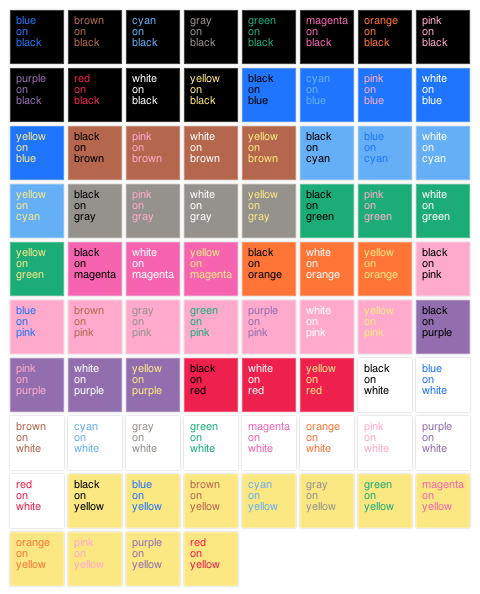
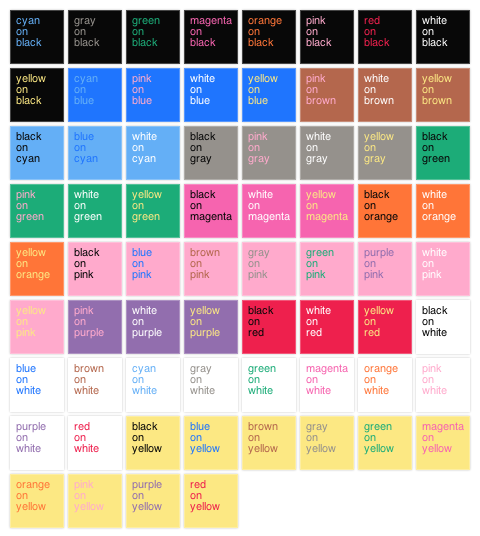
Fixing some coloring

diff --git a/build/colorizer.min.js b/build/colorizer.min.js
@@ -1,1 +1,1 @@
-require=function r(e,a,o){function n(l,d){if(!a[l]){if(!e[l]){var c="function"==typeof require&&require;if(!d&&c)return c(l,!0);if(t)return t(l,!0);var i=new Error("Cannot find module '"+l+"'");throw i.code="MODULE_NOT_FOUND",i}var g=a[l]={exports:{}};e[l][0].call(g.exports,function(r){var a=e[l][1][r];return n(a?a:r)},g,g.exports,r,e,a,o)}return a[l].exports}for(var t="function"==typeof require&&require,l=0;l<o.length;l++)n(o[l]);return n}({"/Users/larsonj/Sites/radReveal/rad-colorizer/src/colorizer.js":[function(r){function e(r,e){if(g=r||{},document.head.innerHTML+='<style id="rad-colorizer-css"></style>',f=document.querySelector("#rad-colorizer-css"),"object"==typeof g.palettes&&Object.keys(g.palettes).forEach(function(r){s[r]=g.palettes[r]}),"object"==typeof g.palette){var a=g.palette.name||"custom";s[a]=g.palette,b=g.palette}Object.keys(s).forEach(function(r){s[r].name=r,o(s[r])}),"string"==typeof g.palette&&(s[g.palette]?b=s[g.palette]:console.log("There is no "+g.palette+" palette; using standard.")),g.fillSlides&&e.forEach(function(r){r.element.hasAttribute("data-rad-colorizer")||r.element.setAttribute("data-rad-colorizer",g.fillSlides)})}function a(r){Object.keys(r.foregrounds).sort().forEach(function(e){Object.keys(r.backgrounds).sort().forEach(function(a){e!=a&&(r.dontPair[e]&&r.dontPair[e][a]||r.dontPair[a]&&r.dontPair[a][e]||(r.pairs.push({background:{name:a,color:r.backgrounds[a]},foreground:{name:e,color:r.foregrounds[e]}}),r.pairForBackground[a]||(r.pairForBackground[a]=[]),r.pairForBackground[a].push(r.pairs.length-1),r.pairForForeground[e]||(r.pairForForeground[e]=[]),r.pairForForeground[e].push(r.pairs.length-1)))})})}function o(r){(!r.colors||Object.keys(r.colors).length<3)&&(console.log("Palettes must contain at least three colors; "+r.name+" doesn't; defaulting to standard colors"),r.colors=s.standard.colors),r.pairs=r.pairs||[],r.foregrounds=r.foregrounds||r.colors,r.backgrounds=r.backgrounds||r.colors,r.dontPair=r.dontPair||{},r.pairForBackground={},r.pairForForeground={},r.toHtml=function(){return p(this)},s[r.name]=r,a(r),r.pairs<3&&(console.log("Palettes must have at least three available pairs; "+r.name+" doesn't; ignoring dontPair."),r.dontPair={},a(r));var e=[];Object.keys(r.foregrounds).forEach(function(a){var o=".reveal ."+i(r,"fore",a);e.push(o+","+o+" * {color:"+r.foregrounds[a]+";}\n"),o=".reveal."+i(r,"fore",a)+" .controls div.navigate-left",e.push(o+","+o+".enabled {border-right-color:"+r.foregrounds[a]+";}\n"),o=".reveal."+i(r,"fore",a)+" .controls div.navigate-right",e.push(o+","+o+".enabled {border-left-color:"+r.foregrounds[a]+";}\n"),o=".reveal."+i(r,"fore",a)+" .controls div.navigate-up",e.push(o+","+o+".enabled {border-bottom-color:"+r.foregrounds[a]+";}\n"),o=".reveal."+i(r,"fore",a)+" .controls div.navigate-down",e.push(o+","+o+".enabled {border-top-color:"+r.foregrounds[a]+";}\n"),o=".reveal."+i(r,"fore",a)+" .progress span",e.push(o+" {background:"+r.foregrounds[a]+";}\n")}),Object.keys(r.backgrounds).forEach(function(a){var o=".reveal .backgrounds ."+i(r,"back",a);e.push(o+" {background-color:"+r.backgrounds[a]+";}\n")}),f.innerHTML+=e.join("")}function n(r,e,a){var o,n=k;r.data.randomizer&&(r.data.colorizer.randomizer||(r.data.colorizer.randomizer=r.data.getRandomizerFor("colorizer")),n=r.data.colorizer.randomizer);var t=r.data.colorizer.palette;return o=e&&!a?t.pairForForeground[e][n.random(0,t.pairForBackground[e].length)]:a&&!e?t.pairForBackground[a][n.random(0,t.pairForBackground[a].length)]:n.random(0,t.pairs.length)}function t(r,e,a){var o=n(r,e,a);if(!r.prevSlideObj||!r.prevSlideObj.data.colorizer||g.allowBackgroundRepeat)return o;if(r.prevSlideObj.data.randomizer&&r.data.randomizer&&r.prevSlideObj.data.randomizer.seed==r.data.randomizer.seed)return o;for(previousBackgroundColor=r.prevSlideObj.data.colorizer.background.name;r.data.colorizer.palette.pairs[o].background.name==previousBackgroundColor;)o=n(r,e,a);return o}function l(r,e){e.data.colorizer&&e.data.colorizer.foreground&&e.data.colorizer.palette&&(y.className+=" "+i(e.data.colorizer.palette,"fore",e.data.colorizer.foreground.name))}function d(r,e){e.data.colorizer&&e.data.colorizer.foreground&&e.data.colorizer.palette&&(y.className=y.className.replace(i(e.data.colorizer.palette,"fore",e.data.colorizer.foreground.name),""))}function c(r,e){e.data.colorizer=e.data.colorizer||{};var a=e.element.getAttribute("data-rad-colorizer-palette");a&&(s[a]?b=s[a]:console.log("There is no "+a+" palette")),e.data.colorizer.palette=b;var o=t(e,null,null);e.data.colorizer.background=b.pairs[o].background,e.data.colorizer.foreground=b.pairs[o].foreground;var n=e.element.getAttribute("data-rad-colorizer-background"),l=e.element.getAttribute("data-rad-colorizer-foreground");n&&!b.backgrounds[n]&&(console.log("There is no "+n+" background in the "+b.name+" palette"),n=null),n&&(e.data.colorizer.background={name:n,color:b.backgrounds[n]},l||(e.data.colorizer.foreground=t(e,null,n))),l&&!b.foregrounds[l]&&(console.log("There is no "+l+" foreground in the "+b.name+" palette"),l=null),l&&(e.data.colorizer.foreground={name:l,color:b.foregrounds[l]}),e.element.className+=" "+i(b,"fore",e.data.colorizer.foreground.name)+" "+i(b,"back",e.data.colorizer.background.name)}function i(r,e,a){return"rad-colorizer-"+r.name+"-"+e+"-"+a}var g,u=r("rad-reveal"),s=r("./palettes"),p=r("./generatePaletteHtml"),f=null,b=s.standard,y=document.querySelector(".reveal"),k={random:function(r,e){return Math.floor((e-r)*Math.random()+r)}};u.register("colorizer",e),u.on("data-rad-colorizer","load",c),u.on("data-rad-colorizer","show",l),u.on("data-rad-colorizer","hide",d)},{"./generatePaletteHtml":1,"./palettes":2,"rad-reveal":"rad-reveal"}],1:[function(r,e){function a(r){var e=[];return Object.keys(r.colors).sort().forEach(function(a){Object.keys(r.colors).sort().forEach(function(o){o==a||"undefined"!=typeof r.dontPair[o]&&r.dontPair[o][a]||"undefined"!=typeof r.dontPair[a]&&r.dontPair[a][o]||e.push('<span class="colorizer-palette-pair" style="color: '+r.colors[o]+"; background-color: "+r.colors[a]+'">'+o+"<br>on</br>"+a+"</span>")})}),e.join("")}e.exports=a},{}],2:[function(r,e){var a={standard:{colors:{black:"black",white:"white",gray:"gray",brown:"brown",red:"red",orange:"orange",yellow:"yellow",green:"green",blue:"blue",purple:"purple"},dontPair:{black:{white:1,blue:1,purple:1},white:{black:1,yellow:1},gray:{brown:1,red:1,orange:1,green:1,purple:1},brown:{gray:1,red:1,green:1,blue:1,purple:1},red:{gray:1,brown:1,orange:1,green:1,blue:1,purple:1},orange:{gray:1,red:1},yellow:{white:1},green:{gray:1,brown:1,red:1,blue:1,purple:1},blue:{black:1,brown:1,red:1,green:1,purple:1},purple:{black:1,gray:1,brown:1,red:1,green:1,blue:1}}},crayons:{colors:{red:"#ee204d",orange:"#ff7538",yellow:"#fce883",green:"#1cac78",blue:"#1f75fe",purple:"#926eae",black:"#000000",white:"#ffffff",gray:"#95918c",brown:"#b4674d",cyan:"#64aff6",magenta:"#f664af",pink:"#ffaacc"},dontPair:{red:{orange:1,green:1,blue:1,purple:1,gray:1,brown:1,cyan:1,magenta:1,pink:1},orange:{red:1,green:1,blue:1,purple:1,gray:1,brown:1,cyan:1,magenta:1,pink:1},yellow:{white:1},green:{red:1,orange:1,blue:1,purple:1,gray:1,brown:1,cyan:1,magenta:1},blue:{red:1,orange:1,green:1,purple:1,gray:1,brown:1,magenta:1},purple:{red:1,orange:1,green:1,blue:1,gray:1,brown:1,cyan:1,magenta:1},white:{yellow:1},gray:{red:1,orange:1,green:1,blue:1,purple:1,brown:1,cyan:1,magenta:1},brown:{red:1,orange:1,green:1,blue:1,purple:1,gray:1,cyan:1,magenta:1},cyan:{red:1,orange:1,green:1,purple:1,gray:1,brown:1,magenta:1,pink:1},magenta:{red:1,orange:1,green:1,blue:1,purple:1,gray:1,brown:1,cyan:1,pink:1},pink:{red:1,orange:1,cyan:1,magenta:1}}},grayscale:{colors:{black:"#000",dark:"#444",gray:"#888",light:"#ccc",white:"#fff"},dontPair:{black:{dark:1},dark:{black:1,gray:1},gray:{dark:1,light:1},light:{gray:1,white:1},white:{light:1}}},wood:{colors:{darkBrown:"#5d4037",brown:"#795548",darkOrange:"#f57c00",orange:"#ffc107",lightOrange:"#ffe0b2",lightGray:"#d7ccc8",gray:"#727272",darkGray:"#212121"},dontPair:{darkBrown:{brown:1,gray:1,darkGray:1},brown:{darkBrown:1,gray:1,darkGray:1},darkOrange:{orange:1,gray:1},orange:{darkOrange:1,lightOrange:1,lightGray:1},lightOrange:{orange:1,lightGray:1},lightGray:{orange:1,lightOrange:1},gray:{darkBrown:1,brown:1,darkOrange:1},darkGray:{darkBrown:1,brown:1}}},sea:{colors:{navy:"#303f9f",deepSky:"#03a9f4",lagoon:"#00bcd4",lightSky:"#b3e5fc",seaGreen:"#009688",deepGray:"#212121",gray:"#727272"},dontPair:{navy:{deepGray:1,gray:1},deepSky:{lagoon:1,seaGreen:1},lagoon:{deepSky:1,seaGreen:1,gray:1},seaGreen:{deepSky:1,lagoon:1,gray:1},deepGray:{navy:1},gray:{navy:1,lagoon:1,seaGreen:1}}},circus:{colors:{black:"#212121",blue:"#536dfe",darkGray:"#727272",lightGray:"#b6b6b6",red:"#f44336",orange:"#fbc02d",yellow:"#ffeb3b",white:"#ffffff"},dontPair:{black:{darkGray:1},blue:{darkGray:1,red:1},darkGray:{black:1,blue:1,red:1,orange:1},lightGray:{red:1,orange:1,yellow:1},red:{blue:1,darkGray:1,lightGray:1},orange:{lightGray:1,yellow:1,darkGray:1},yellow:{orange:1,white:1,lightGray:1},white:{yellow:1}}}};e.exports=a},{}]},{},["/Users/larsonj/Sites/radReveal/rad-colorizer/src/colorizer.js"]);
+require=function r(e,a,o){function n(l,d){if(!a[l]){if(!e[l]){var c="function"==typeof require&&require;if(!d&&c)return c(l,!0);if(t)return t(l,!0);var i=new Error("Cannot find module '"+l+"'");throw i.code="MODULE_NOT_FOUND",i}var g=a[l]={exports:{}};e[l][0].call(g.exports,function(r){var a=e[l][1][r];return n(a?a:r)},g,g.exports,r,e,a,o)}return a[l].exports}for(var t="function"==typeof require&&require,l=0;l<o.length;l++)n(o[l]);return n}({"/Users/larsonj/Sites/radReveal/rad-colorizer/src/colorizer.js":[function(r){function e(r,e){if(g=r||{},document.head.innerHTML+='<style id="rad-colorizer-css"></style>',f=document.querySelector("#rad-colorizer-css"),"object"==typeof g.palettes&&Object.keys(g.palettes).forEach(function(r){s[r]=g.palettes[r]}),"object"==typeof g.palette){var a=g.palette.name||"custom";s[a]=g.palette,b=g.palette}Object.keys(s).forEach(function(r){s[r].name=r,o(s[r])}),"string"==typeof g.palette&&(s[g.palette]?b=s[g.palette]:console.log("There is no "+g.palette+" palette; using standard.")),g.fillSlides&&e.forEach(function(r){r.element.hasAttribute("data-rad-colorizer")||r.element.setAttribute("data-rad-colorizer",g.fillSlides)})}function a(r){Object.keys(r.foregrounds).sort().forEach(function(e){Object.keys(r.backgrounds).sort().forEach(function(a){e!=a&&(r.dontPair[e]&&r.dontPair[e][a]||r.dontPair[a]&&r.dontPair[a][e]||(r.pairs.push({background:{name:a,color:r.backgrounds[a]},foreground:{name:e,color:r.foregrounds[e]}}),r.pairForBackground[a]||(r.pairForBackground[a]=[]),r.pairForBackground[a].push(r.pairs.length-1),r.pairForForeground[e]||(r.pairForForeground[e]=[]),r.pairForForeground[e].push(r.pairs.length-1)))})})}function o(r){(!r.colors||Object.keys(r.colors).length<3)&&(console.log("Palettes must contain at least three colors; "+r.name+" doesn't; defaulting to standard colors"),r.colors=s.standard.colors),r.pairs=r.pairs||[],r.foregrounds=r.foregrounds||r.colors,r.backgrounds=r.backgrounds||r.colors,r.dontPair=r.dontPair||{},r.pairForBackground={},r.pairForForeground={},r.toHtml=function(){return p(this)},s[r.name]=r,a(r),r.pairs<3&&(console.log("Palettes must have at least three available pairs; "+r.name+" doesn't; ignoring dontPair."),r.dontPair={},a(r));var e=[];Object.keys(r.foregrounds).forEach(function(a){var o=".reveal ."+i(r,"fore",a);e.push(o+","+o+" * {color:"+r.foregrounds[a]+";}\n"),o=".reveal."+i(r,"fore",a)+" .controls div.navigate-left",e.push(o+","+o+".enabled {border-right-color:"+r.foregrounds[a]+";}\n"),o=".reveal."+i(r,"fore",a)+" .controls div.navigate-right",e.push(o+","+o+".enabled {border-left-color:"+r.foregrounds[a]+";}\n"),o=".reveal."+i(r,"fore",a)+" .controls div.navigate-up",e.push(o+","+o+".enabled {border-bottom-color:"+r.foregrounds[a]+";}\n"),o=".reveal."+i(r,"fore",a)+" .controls div.navigate-down",e.push(o+","+o+".enabled {border-top-color:"+r.foregrounds[a]+";}\n"),o=".reveal."+i(r,"fore",a)+" .progress span",e.push(o+" {background:"+r.foregrounds[a]+";}\n")}),Object.keys(r.backgrounds).forEach(function(a){var o=".reveal .backgrounds ."+i(r,"back",a);e.push(o+" {background-color:"+r.backgrounds[a]+";}\n")}),f.innerHTML+=e.join("")}function n(r,e,a){var o,n=k;r.data.randomizer&&(r.data.colorizer.randomizer||(r.data.colorizer.randomizer=r.data.getRandomizerFor("colorizer")),n=r.data.colorizer.randomizer);var t=r.data.colorizer.palette;return o=e&&!a?t.pairForForeground[e][n.random(0,t.pairForBackground[e].length)]:a&&!e?t.pairForBackground[a][n.random(0,t.pairForBackground[a].length)]:n.random(0,t.pairs.length)}function t(r,e,a){var o=n(r,e,a);if(!r.prevSlideObj||!r.prevSlideObj.data.colorizer||g.allowBackgroundRepeat)return o;if(r.prevSlideObj.data.randomizer&&r.data.randomizer&&r.prevSlideObj.data.randomizer.seed==r.data.randomizer.seed)return o;for(previousBackgroundColor=r.prevSlideObj.data.colorizer.background.name;r.data.colorizer.palette.pairs[o].background.name==previousBackgroundColor;)o=n(r,e,a);return o}function l(r,e){e.data.colorizer&&e.data.colorizer.foreground&&e.data.colorizer.palette&&(y.className+=" "+i(e.data.colorizer.palette,"fore",e.data.colorizer.foreground.name))}function d(r,e){e.data.colorizer&&e.data.colorizer.foreground&&e.data.colorizer.palette&&(y.className=y.className.replace(i(e.data.colorizer.palette,"fore",e.data.colorizer.foreground.name),""))}function c(r,e){e.data.colorizer=e.data.colorizer||{};var a=e.element.getAttribute("data-rad-colorizer-palette");a&&(s[a]?b=s[a]:console.log("There is no "+a+" palette")),e.data.colorizer.palette=b;var o=t(e,null,null);e.data.colorizer.background=b.pairs[o].background,e.data.colorizer.foreground=b.pairs[o].foreground;var n=e.element.getAttribute("data-rad-colorizer-background"),l=e.element.getAttribute("data-rad-colorizer-foreground");n&&!b.backgrounds[n]&&(console.log("There is no "+n+" background in the "+b.name+" palette"),n=null),n&&(e.data.colorizer.background={name:n,color:b.backgrounds[n]},l||(e.data.colorizer.foreground=t(e,null,n))),l&&!b.foregrounds[l]&&(console.log("There is no "+l+" foreground in the "+b.name+" palette"),l=null),l&&(e.data.colorizer.foreground={name:l,color:b.foregrounds[l]}),e.element.className+=" "+i(b,"fore",e.data.colorizer.foreground.name)+" "+i(b,"back",e.data.colorizer.background.name)}function i(r,e,a){return"rad-colorizer-"+r.name+"-"+e+"-"+a}var g,u=r("rad-reveal"),s=r("./palettes"),p=r("./generatePaletteHtml"),f=null,b=s.standard,y=document.querySelector(".reveal"),k={random:function(r,e){return Math.floor((e-r)*Math.random()+r)}};u.register("colorizer",e),u.on("data-rad-colorizer","load",c),u.on("data-rad-colorizer","show",l),u.on("data-rad-colorizer","hide",d)},{"./generatePaletteHtml":1,"./palettes":2,"rad-reveal":"rad-reveal"}],1:[function(r,e){function a(r){var e=[];return Object.keys(r.colors).sort().forEach(function(a){Object.keys(r.colors).sort().forEach(function(o){o==a||"undefined"!=typeof r.dontPair[o]&&r.dontPair[o][a]||"undefined"!=typeof r.dontPair[a]&&r.dontPair[a][o]||e.push('<span class="colorizer-palette-pair" style="color: '+r.colors[o]+"; background-color: "+r.colors[a]+'">'+o+"<br>on</br>"+a+"</span>")})}),e.join("")}e.exports=a},{}],2:[function(r,e){var a={standard:{colors:{black:"black",white:"white",gray:"gray",brown:"brown",red:"red",orange:"orange",yellow:"yellow",green:"green",blue:"blue",purple:"purple"},dontPair:{black:{white:1,blue:1,purple:1},white:{black:1,yellow:1},gray:{brown:1,red:1,orange:1,green:1,purple:1},brown:{gray:1,red:1,green:1,blue:1,purple:1},red:{gray:1,brown:1,orange:1,green:1,blue:1,purple:1},orange:{gray:1,red:1},yellow:{white:1},green:{gray:1,brown:1,red:1,blue:1,purple:1},blue:{black:1,brown:1,red:1,green:1,purple:1},purple:{black:1,gray:1,brown:1,red:1,green:1,blue:1}}},crayons:{colors:{red:"#ee204d",orange:"#ff7538",yellow:"#fce883",green:"#1cac78",blue:"#1f75fe",purple:"#926eae",black:"#080808",white:"#ffffff",gray:"#95918c",brown:"#b4674d",cyan:"#64aff6",magenta:"#f664af",pink:"#ffaacc"},dontPair:{red:{orange:1,green:1,blue:1,purple:1,gray:1,brown:1,cyan:1,magenta:1,pink:1},orange:{red:1,green:1,blue:1,purple:1,gray:1,brown:1,cyan:1,magenta:1,pink:1},yellow:{white:1,cyan:1},green:{red:1,orange:1,blue:1,purple:1,gray:1,brown:1,cyan:1,magenta:1},blue:{red:1,orange:1,green:1,purple:1,gray:1,brown:1,magenta:1,black:1},purple:{red:1,orange:1,green:1,blue:1,gray:1,brown:1,cyan:1,magenta:1,black:1},white:{yellow:1},gray:{red:1,orange:1,green:1,blue:1,purple:1,brown:1,cyan:1,magenta:1},brown:{red:1,orange:1,green:1,blue:1,purple:1,gray:1,cyan:1,magenta:1,black:1},cyan:{red:1,orange:1,green:1,purple:1,gray:1,brown:1,magenta:1,pink:1,yellow:1},magenta:{red:1,orange:1,green:1,blue:1,purple:1,gray:1,brown:1,cyan:1,pink:1},pink:{red:1,orange:1,cyan:1,magenta:1},black:{purple:1,brown:1,blue:1}}},grayscale:{colors:{black:"#000",dark:"#444",gray:"#888",light:"#ccc",white:"#fff"},dontPair:{black:{dark:1},dark:{black:1,gray:1},gray:{dark:1,light:1},light:{gray:1,white:1},white:{light:1}}},wood:{colors:{darkBrown:"#5d4037",brown:"#795548",darkOrange:"#f57c00",orange:"#ffc107",lightOrange:"#ffe0b2",lightGray:"#d7ccc8",gray:"#727272",darkGray:"#212121"},dontPair:{darkBrown:{brown:1,gray:1,darkGray:1},brown:{darkBrown:1,gray:1,darkGray:1},darkOrange:{orange:1,gray:1},orange:{darkOrange:1,lightOrange:1,lightGray:1},lightOrange:{orange:1,lightGray:1},lightGray:{orange:1,lightOrange:1},gray:{darkBrown:1,brown:1,darkOrange:1},darkGray:{darkBrown:1,brown:1}}},sea:{colors:{navy:"#303f9f",deepSky:"#03a9f4",lagoon:"#00bcd4",lightSky:"#b3e5fc",seaGreen:"#009688",deepGray:"#212121",gray:"#727272"},dontPair:{navy:{deepGray:1,gray:1},deepSky:{lagoon:1,seaGreen:1},lagoon:{deepSky:1,seaGreen:1,gray:1},seaGreen:{deepSky:1,lagoon:1,gray:1},deepGray:{navy:1},gray:{navy:1,lagoon:1,seaGreen:1}}},circus:{colors:{black:"#212121",blue:"#536dfe",darkGray:"#727272",lightGray:"#b6b6b6",red:"#f44336",orange:"#fbc02d",yellow:"#ffeb3b",white:"#ffffff"},dontPair:{black:{darkGray:1},blue:{darkGray:1,red:1},darkGray:{black:1,blue:1,red:1,orange:1},lightGray:{red:1,orange:1,yellow:1},red:{blue:1,darkGray:1,lightGray:1},orange:{lightGray:1,yellow:1,darkGray:1},yellow:{orange:1,white:1,lightGray:1},white:{yellow:1}}}};e.exports=a},{}]},{},["/Users/larsonj/Sites/radReveal/rad-colorizer/src/colorizer.js"]);

diff --git a/build/getRandomColorPair.min.js b/build/getRandomColorPair.min.js
@@ -1,1 +1,1 @@
-require=function r(e,a,n){function o(l,t){if(!a[l]){if(!e[l]){var y="function"==typeof require&&require;if(!t&&y)return y(l,!0);if(g)return g(l,!0);var d=new Error("Cannot find module '"+l+"'");throw d.code="MODULE_NOT_FOUND",d}var i=a[l]={exports:{}};e[l][0].call(i.exports,function(r){var a=e[l][1][r];return o(a?a:r)},i,i.exports,r,e,a,n)}return a[l].exports}for(var g="function"==typeof require&&require,l=0;l<n.length;l++)o(n[l]);return o}({1:[function(r,e){var a={standard:{colors:{black:"black",white:"white",gray:"gray",brown:"brown",red:"red",orange:"orange",yellow:"yellow",green:"green",blue:"blue",purple:"purple"},dontPair:{black:{white:1,blue:1,purple:1},white:{black:1,yellow:1},gray:{brown:1,red:1,orange:1,green:1,purple:1},brown:{gray:1,red:1,green:1,blue:1,purple:1},red:{gray:1,brown:1,orange:1,green:1,blue:1,purple:1},orange:{gray:1,red:1},yellow:{white:1},green:{gray:1,brown:1,red:1,blue:1,purple:1},blue:{black:1,brown:1,red:1,green:1,purple:1},purple:{black:1,gray:1,brown:1,red:1,green:1,blue:1}}},crayons:{colors:{red:"#ee204d",orange:"#ff7538",yellow:"#fce883",green:"#1cac78",blue:"#1f75fe",purple:"#926eae",black:"#000000",white:"#ffffff",gray:"#95918c",brown:"#b4674d",cyan:"#64aff6",magenta:"#f664af",pink:"#ffaacc"},dontPair:{red:{orange:1,green:1,blue:1,purple:1,gray:1,brown:1,cyan:1,magenta:1,pink:1},orange:{red:1,green:1,blue:1,purple:1,gray:1,brown:1,cyan:1,magenta:1,pink:1},yellow:{white:1},green:{red:1,orange:1,blue:1,purple:1,gray:1,brown:1,cyan:1,magenta:1},blue:{red:1,orange:1,green:1,purple:1,gray:1,brown:1,magenta:1},purple:{red:1,orange:1,green:1,blue:1,gray:1,brown:1,cyan:1,magenta:1},white:{yellow:1},gray:{red:1,orange:1,green:1,blue:1,purple:1,brown:1,cyan:1,magenta:1},brown:{red:1,orange:1,green:1,blue:1,purple:1,gray:1,cyan:1,magenta:1},cyan:{red:1,orange:1,green:1,purple:1,gray:1,brown:1,magenta:1,pink:1},magenta:{red:1,orange:1,green:1,blue:1,purple:1,gray:1,brown:1,cyan:1,pink:1},pink:{red:1,orange:1,cyan:1,magenta:1}}},grayscale:{colors:{black:"#000",dark:"#444",gray:"#888",light:"#ccc",white:"#fff"},dontPair:{black:{dark:1},dark:{black:1,gray:1},gray:{dark:1,light:1},light:{gray:1,white:1},white:{light:1}}},wood:{colors:{darkBrown:"#5d4037",brown:"#795548",darkOrange:"#f57c00",orange:"#ffc107",lightOrange:"#ffe0b2",lightGray:"#d7ccc8",gray:"#727272",darkGray:"#212121"},dontPair:{darkBrown:{brown:1,gray:1,darkGray:1},brown:{darkBrown:1,gray:1,darkGray:1},darkOrange:{orange:1,gray:1},orange:{darkOrange:1,lightOrange:1,lightGray:1},lightOrange:{orange:1,lightGray:1},lightGray:{orange:1,lightOrange:1},gray:{darkBrown:1,brown:1,darkOrange:1},darkGray:{darkBrown:1,brown:1}}},sea:{colors:{navy:"#303f9f",deepSky:"#03a9f4",lagoon:"#00bcd4",lightSky:"#b3e5fc",seaGreen:"#009688",deepGray:"#212121",gray:"#727272"},dontPair:{navy:{deepGray:1,gray:1},deepSky:{lagoon:1,seaGreen:1},lagoon:{deepSky:1,seaGreen:1,gray:1},seaGreen:{deepSky:1,lagoon:1,gray:1},deepGray:{navy:1},gray:{navy:1,lagoon:1,seaGreen:1}}},circus:{colors:{black:"#212121",blue:"#536dfe",darkGray:"#727272",lightGray:"#b6b6b6",red:"#f44336",orange:"#fbc02d",yellow:"#ffeb3b",white:"#ffffff"},dontPair:{black:{darkGray:1},blue:{darkGray:1,red:1},darkGray:{black:1,blue:1,red:1,orange:1},lightGray:{red:1,orange:1,yellow:1},red:{blue:1,darkGray:1,lightGray:1},orange:{lightGray:1,yellow:1,darkGray:1},yellow:{orange:1,white:1,lightGray:1},white:{yellow:1}}}};e.exports=a},{}],"rad-colorizer-getrandomcolorpair":[function(r,e){function a(r){for(var e,a,o=n[r],g=Object.keys(o.colors);!e||!a||e==a||o.dontPair[e][a]||o.dontPair[a][e];)e=g[Math.floor(Math.random()*g.length)],a=g[Math.floor(Math.random()*g.length)],console.log("try "+e+" "+a);return console.log("win "+e+" "+a),{foreground:e,background:a}}var n=r("./palettes");e.exports=a},{"./palettes":1}]},{},["rad-colorizer-getrandomcolorpair"]);
+require=function r(e,a,n){function o(g,y){if(!a[g]){if(!e[g]){var t="function"==typeof require&&require;if(!y&&t)return t(g,!0);if(l)return l(g,!0);var d=new Error("Cannot find module '"+g+"'");throw d.code="MODULE_NOT_FOUND",d}var b=a[g]={exports:{}};e[g][0].call(b.exports,function(r){var a=e[g][1][r];return o(a?a:r)},b,b.exports,r,e,a,n)}return a[g].exports}for(var l="function"==typeof require&&require,g=0;g<n.length;g++)o(n[g]);return o}({1:[function(r,e){var a={standard:{colors:{black:"black",white:"white",gray:"gray",brown:"brown",red:"red",orange:"orange",yellow:"yellow",green:"green",blue:"blue",purple:"purple"},dontPair:{black:{white:1,blue:1,purple:1},white:{black:1,yellow:1},gray:{brown:1,red:1,orange:1,green:1,purple:1},brown:{gray:1,red:1,green:1,blue:1,purple:1},red:{gray:1,brown:1,orange:1,green:1,blue:1,purple:1},orange:{gray:1,red:1},yellow:{white:1},green:{gray:1,brown:1,red:1,blue:1,purple:1},blue:{black:1,brown:1,red:1,green:1,purple:1},purple:{black:1,gray:1,brown:1,red:1,green:1,blue:1}}},crayons:{colors:{red:"#ee204d",orange:"#ff7538",yellow:"#fce883",green:"#1cac78",blue:"#1f75fe",purple:"#926eae",black:"#080808",white:"#ffffff",gray:"#95918c",brown:"#b4674d",cyan:"#64aff6",magenta:"#f664af",pink:"#ffaacc"},dontPair:{red:{orange:1,green:1,blue:1,purple:1,gray:1,brown:1,cyan:1,magenta:1,pink:1},orange:{red:1,green:1,blue:1,purple:1,gray:1,brown:1,cyan:1,magenta:1,pink:1},yellow:{white:1,cyan:1},green:{red:1,orange:1,blue:1,purple:1,gray:1,brown:1,cyan:1,magenta:1},blue:{red:1,orange:1,green:1,purple:1,gray:1,brown:1,magenta:1,black:1},purple:{red:1,orange:1,green:1,blue:1,gray:1,brown:1,cyan:1,magenta:1,black:1},white:{yellow:1},gray:{red:1,orange:1,green:1,blue:1,purple:1,brown:1,cyan:1,magenta:1},brown:{red:1,orange:1,green:1,blue:1,purple:1,gray:1,cyan:1,magenta:1,black:1},cyan:{red:1,orange:1,green:1,purple:1,gray:1,brown:1,magenta:1,pink:1,yellow:1},magenta:{red:1,orange:1,green:1,blue:1,purple:1,gray:1,brown:1,cyan:1,pink:1},pink:{red:1,orange:1,cyan:1,magenta:1},black:{purple:1,brown:1,blue:1}}},grayscale:{colors:{black:"#000",dark:"#444",gray:"#888",light:"#ccc",white:"#fff"},dontPair:{black:{dark:1},dark:{black:1,gray:1},gray:{dark:1,light:1},light:{gray:1,white:1},white:{light:1}}},wood:{colors:{darkBrown:"#5d4037",brown:"#795548",darkOrange:"#f57c00",orange:"#ffc107",lightOrange:"#ffe0b2",lightGray:"#d7ccc8",gray:"#727272",darkGray:"#212121"},dontPair:{darkBrown:{brown:1,gray:1,darkGray:1},brown:{darkBrown:1,gray:1,darkGray:1},darkOrange:{orange:1,gray:1},orange:{darkOrange:1,lightOrange:1,lightGray:1},lightOrange:{orange:1,lightGray:1},lightGray:{orange:1,lightOrange:1},gray:{darkBrown:1,brown:1,darkOrange:1},darkGray:{darkBrown:1,brown:1}}},sea:{colors:{navy:"#303f9f",deepSky:"#03a9f4",lagoon:"#00bcd4",lightSky:"#b3e5fc",seaGreen:"#009688",deepGray:"#212121",gray:"#727272"},dontPair:{navy:{deepGray:1,gray:1},deepSky:{lagoon:1,seaGreen:1},lagoon:{deepSky:1,seaGreen:1,gray:1},seaGreen:{deepSky:1,lagoon:1,gray:1},deepGray:{navy:1},gray:{navy:1,lagoon:1,seaGreen:1}}},circus:{colors:{black:"#212121",blue:"#536dfe",darkGray:"#727272",lightGray:"#b6b6b6",red:"#f44336",orange:"#fbc02d",yellow:"#ffeb3b",white:"#ffffff"},dontPair:{black:{darkGray:1},blue:{darkGray:1,red:1},darkGray:{black:1,blue:1,red:1,orange:1},lightGray:{red:1,orange:1,yellow:1},red:{blue:1,darkGray:1,lightGray:1},orange:{lightGray:1,yellow:1,darkGray:1},yellow:{orange:1,white:1,lightGray:1},white:{yellow:1}}}};e.exports=a},{}],"rad-colorizer-getrandomcolorpair":[function(r,e){function a(r,e){for(var a,o,l=n[r],g=Object.keys(l.colors);!a||!o||a==o||l.dontPair[a][o]||l.dontPair[o][a]||e[a]||e[o];)a=g[Math.floor(Math.random()*g.length)],o=g[Math.floor(Math.random()*g.length)],console.log("try "+a+" "+o);return console.log("win "+a+" "+o),{foreground:a,background:o}}var n=r("./palettes");e.exports=a},{"./palettes":1}]},{},["rad-colorizer-getrandomcolorpair"]);

diff --git a/build/getRandomColorPair.js b/build/getRandomColorPair.js
@@ -34,7 +34,7 @@ var palettes = {
             green:   '#1cac78', 
             blue:    '#1f75fe', 
             purple:  '#926eae',
-            black:   '#000000', 
+            black:   '#080808', 
             white:   '#ffffff', 
             gray:    '#95918c', 
             brown:   '#b4674d', 
@@ -45,16 +45,17 @@ var palettes = {
         dontPair: {
             red:      { orange: 1, green: 1, blue: 1, purple: 1, gray: 1, brown: 1, cyan: 1, magenta: 1, pink: 1 },
             orange:   { red: 1, green: 1, blue: 1, purple: 1, gray: 1, brown: 1, cyan: 1, magenta: 1, pink: 1 },
-            yellow:   { white: 1 },
+            yellow:   { white: 1, cyan: 1 },
             green:    { red: 1, orange: 1, blue: 1, purple: 1, gray: 1, brown: 1, cyan: 1, magenta: 1 },
-            blue:     { red: 1, orange: 1, green: 1, purple: 1, gray: 1, brown: 1, magenta: 1 },
-            purple:   { red: 1, orange: 1, green: 1, blue: 1, gray: 1, brown: 1, cyan: 1, magenta: 1 },
+            blue:     { red: 1, orange: 1, green: 1, purple: 1, gray: 1, brown: 1, magenta: 1, black: 1 },
+            purple:   { red: 1, orange: 1, green: 1, blue: 1, gray: 1, brown: 1, cyan: 1, magenta: 1, black: 1 },
             white:    { yellow: 1 },
             gray:     { red: 1, orange: 1, green: 1, blue: 1, purple: 1, brown: 1, cyan: 1, magenta: 1 },
-            brown:    { red: 1, orange: 1, green: 1, blue: 1, purple: 1, gray: 1, cyan: 1, magenta: 1 },
-            cyan:     { red: 1, orange: 1, green: 1, purple: 1, gray: 1, brown: 1, magenta: 1, pink: 1 },
+            brown:    { red: 1, orange: 1, green: 1, blue: 1, purple: 1, gray: 1, cyan: 1, magenta: 1, black: 1 },
+            cyan:     { red: 1, orange: 1, green: 1, purple: 1, gray: 1, brown: 1, magenta: 1, pink: 1, yellow: 1 },
             magenta:  { red: 1, orange: 1, green: 1, blue: 1, purple: 1, gray: 1, brown: 1, cyan: 1, pink: 1 },
-            pink:     { red: 1, orange: 1, cyan: 1, magenta: 1 }
+            pink:     { red: 1, orange: 1, cyan: 1, magenta: 1 },
+            black:    { purple: 1, brown: 1, blue: 1 }
         }
     },
     grayscale: {
@@ -146,13 +147,14 @@ var palettes = require('./palettes');
 /** 
  * Simple method for getting a pair of random colors via palette name.  Used by gh-pages index.html.
  */
-function getRandomColorPair(paletteName) {
+function getRandomColorPair(paletteName, skip) {
     var paletteObj = palettes[paletteName];
     var colorNames = Object.keys(paletteObj.colors);
     var fore;
     var back;
     while(!fore || !back || fore == back || 
-      paletteObj.dontPair[fore][back] || paletteObj.dontPair[back][fore]) {
+      paletteObj.dontPair[fore][back] || paletteObj.dontPair[back][fore] ||
+      skip[fore] || skip[back]) {
         fore = colorNames[Math.floor(Math.random() * colorNames.length)];
         back = colorNames[Math.floor(Math.random() * colorNames.length)];
         console.log('try ' + fore + ' ' + back);

diff --git a/build/colorizer.js b/build/colorizer.js
@@ -350,7 +350,7 @@ var palettes = {
             green:   '#1cac78', 
             blue:    '#1f75fe', 
             purple:  '#926eae',
-            black:   '#000000', 
+            black:   '#080808', 
             white:   '#ffffff', 
             gray:    '#95918c', 
             brown:   '#b4674d', 
@@ -361,16 +361,17 @@ var palettes = {
         dontPair: {
             red:      { orange: 1, green: 1, blue: 1, purple: 1, gray: 1, brown: 1, cyan: 1, magenta: 1, pink: 1 },
             orange:   { red: 1, green: 1, blue: 1, purple: 1, gray: 1, brown: 1, cyan: 1, magenta: 1, pink: 1 },
-            yellow:   { white: 1 },
+            yellow:   { white: 1, cyan: 1 },
             green:    { red: 1, orange: 1, blue: 1, purple: 1, gray: 1, brown: 1, cyan: 1, magenta: 1 },
-            blue:     { red: 1, orange: 1, green: 1, purple: 1, gray: 1, brown: 1, magenta: 1 },
-            purple:   { red: 1, orange: 1, green: 1, blue: 1, gray: 1, brown: 1, cyan: 1, magenta: 1 },
+            blue:     { red: 1, orange: 1, green: 1, purple: 1, gray: 1, brown: 1, magenta: 1, black: 1 },
+            purple:   { red: 1, orange: 1, green: 1, blue: 1, gray: 1, brown: 1, cyan: 1, magenta: 1, black: 1 },
             white:    { yellow: 1 },
             gray:     { red: 1, orange: 1, green: 1, blue: 1, purple: 1, brown: 1, cyan: 1, magenta: 1 },
-            brown:    { red: 1, orange: 1, green: 1, blue: 1, purple: 1, gray: 1, cyan: 1, magenta: 1 },
-            cyan:     { red: 1, orange: 1, green: 1, purple: 1, gray: 1, brown: 1, magenta: 1, pink: 1 },
+            brown:    { red: 1, orange: 1, green: 1, blue: 1, purple: 1, gray: 1, cyan: 1, magenta: 1, black: 1 },
+            cyan:     { red: 1, orange: 1, green: 1, purple: 1, gray: 1, brown: 1, magenta: 1, pink: 1, yellow: 1 },
             magenta:  { red: 1, orange: 1, green: 1, blue: 1, purple: 1, gray: 1, brown: 1, cyan: 1, pink: 1 },
-            pink:     { red: 1, orange: 1, cyan: 1, magenta: 1 }
+            pink:     { red: 1, orange: 1, cyan: 1, magenta: 1 },
+            black:    { purple: 1, brown: 1, blue: 1 }
         }
     },
     grayscale: {

diff --git a/src/palettes.js b/src/palettes.js
@@ -33,7 +33,7 @@ var palettes = {
             green:   '#1cac78', 
             blue:    '#1f75fe', 
             purple:  '#926eae',
-            black:   '#000000', 
+            black:   '#080808', 
             white:   '#ffffff', 
             gray:    '#95918c', 
             brown:   '#b4674d', 
@@ -44,16 +44,17 @@ var palettes = {
         dontPair: {
             red:      { orange: 1, green: 1, blue: 1, purple: 1, gray: 1, brown: 1, cyan: 1, magenta: 1, pink: 1 },
             orange:   { red: 1, green: 1, blue: 1, purple: 1, gray: 1, brown: 1, cyan: 1, magenta: 1, pink: 1 },
-            yellow:   { white: 1 },
+            yellow:   { white: 1, cyan: 1 },
             green:    { red: 1, orange: 1, blue: 1, purple: 1, gray: 1, brown: 1, cyan: 1, magenta: 1 },
-            blue:     { red: 1, orange: 1, green: 1, purple: 1, gray: 1, brown: 1, magenta: 1 },
-            purple:   { red: 1, orange: 1, green: 1, blue: 1, gray: 1, brown: 1, cyan: 1, magenta: 1 },
+            blue:     { red: 1, orange: 1, green: 1, purple: 1, gray: 1, brown: 1, magenta: 1, black: 1 },
+            purple:   { red: 1, orange: 1, green: 1, blue: 1, gray: 1, brown: 1, cyan: 1, magenta: 1, black: 1 },
             white:    { yellow: 1 },
             gray:     { red: 1, orange: 1, green: 1, blue: 1, purple: 1, brown: 1, cyan: 1, magenta: 1 },
-            brown:    { red: 1, orange: 1, green: 1, blue: 1, purple: 1, gray: 1, cyan: 1, magenta: 1 },
-            cyan:     { red: 1, orange: 1, green: 1, purple: 1, gray: 1, brown: 1, magenta: 1, pink: 1 },
+            brown:    { red: 1, orange: 1, green: 1, blue: 1, purple: 1, gray: 1, cyan: 1, magenta: 1, black: 1 },
+            cyan:     { red: 1, orange: 1, green: 1, purple: 1, gray: 1, brown: 1, magenta: 1, pink: 1, yellow: 1 },
             magenta:  { red: 1, orange: 1, green: 1, blue: 1, purple: 1, gray: 1, brown: 1, cyan: 1, pink: 1 },
-            pink:     { red: 1, orange: 1, cyan: 1, magenta: 1 }
+            pink:     { red: 1, orange: 1, cyan: 1, magenta: 1 },
+            black:    { purple: 1, brown: 1, blue: 1 }
         }
     },
     grayscale: {

diff --git a/src/getRandomColorPair.js b/src/getRandomColorPair.js
@@ -3,13 +3,14 @@ var palettes = require('./palettes');
 /** 
  * Simple method for getting a pair of random colors via palette name.  Used by gh-pages index.html.
  */
-function getRandomColorPair(paletteName) {
+function getRandomColorPair(paletteName, skip) {
     var paletteObj = palettes[paletteName];
     var colorNames = Object.keys(paletteObj.colors);
     var fore;
     var back;
     while(!fore || !back || fore == back || 
-      paletteObj.dontPair[fore][back] || paletteObj.dontPair[back][fore]) {
+      paletteObj.dontPair[fore][back] || paletteObj.dontPair[back][fore] ||
+      skip[fore] || skip[back]) {
         fore = colorNames[Math.floor(Math.random() * colorNames.length)];
         back = colorNames[Math.floor(Math.random() * colorNames.length)];
         console.log('try ' + fore + ' ' + back);

diff --git a/palettes.md b/palettes.md
@@ -15,7 +15,7 @@
 ![foreground/background color combinations in the standard palette](images/palette-standard.png?raw=true)
 
 ##`crayons` palette
-* black: #000000
+* black: #080808
 * blue: #1f75fe
 * brown: #b4674d
 * cyan: #64aff6
